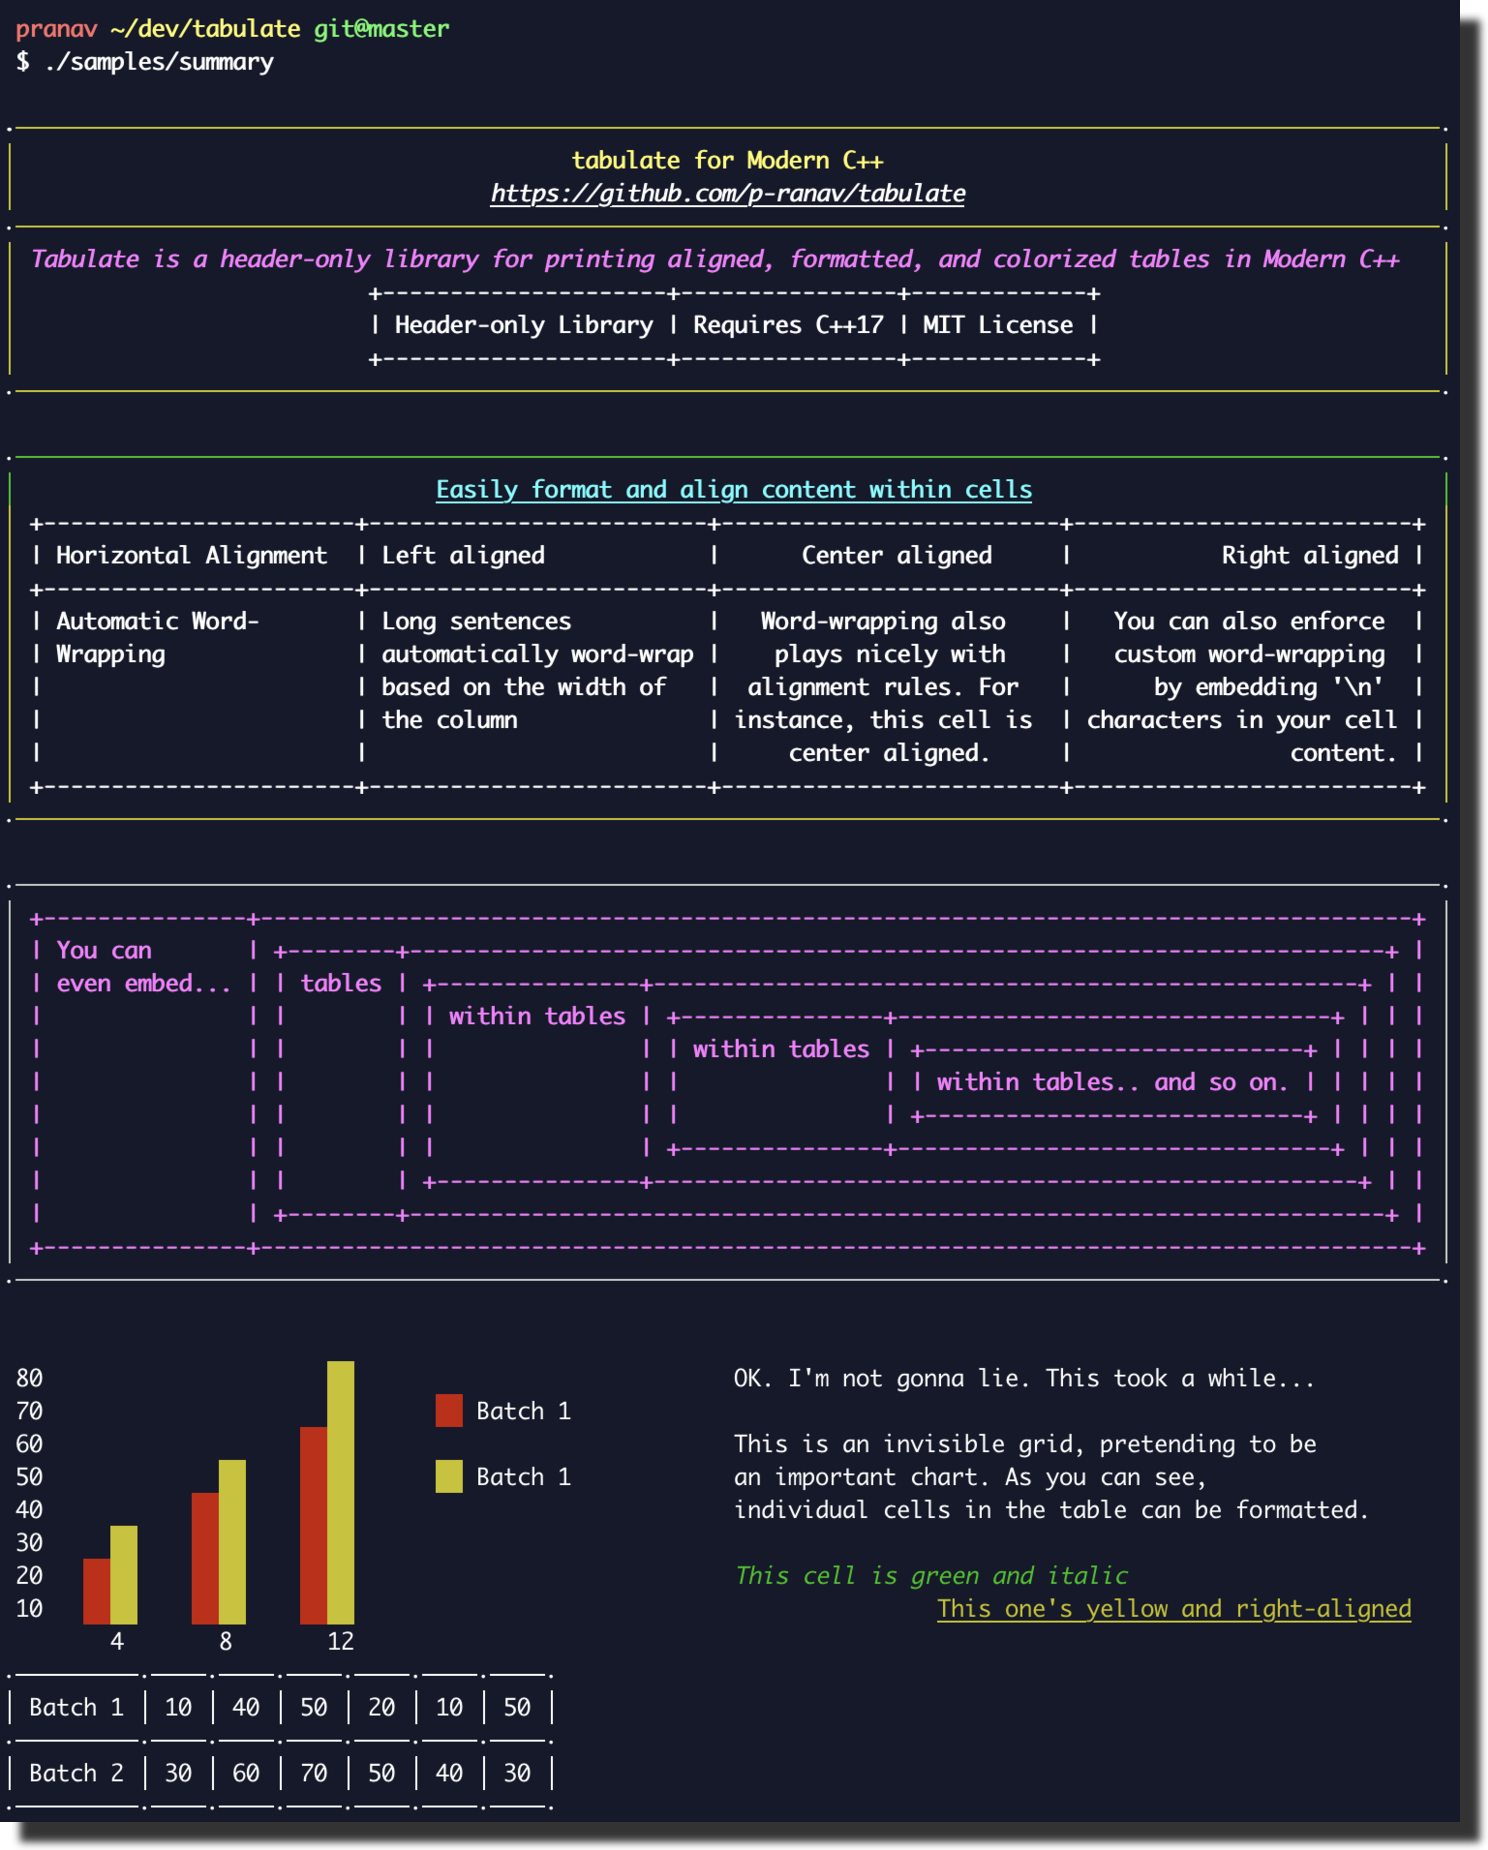
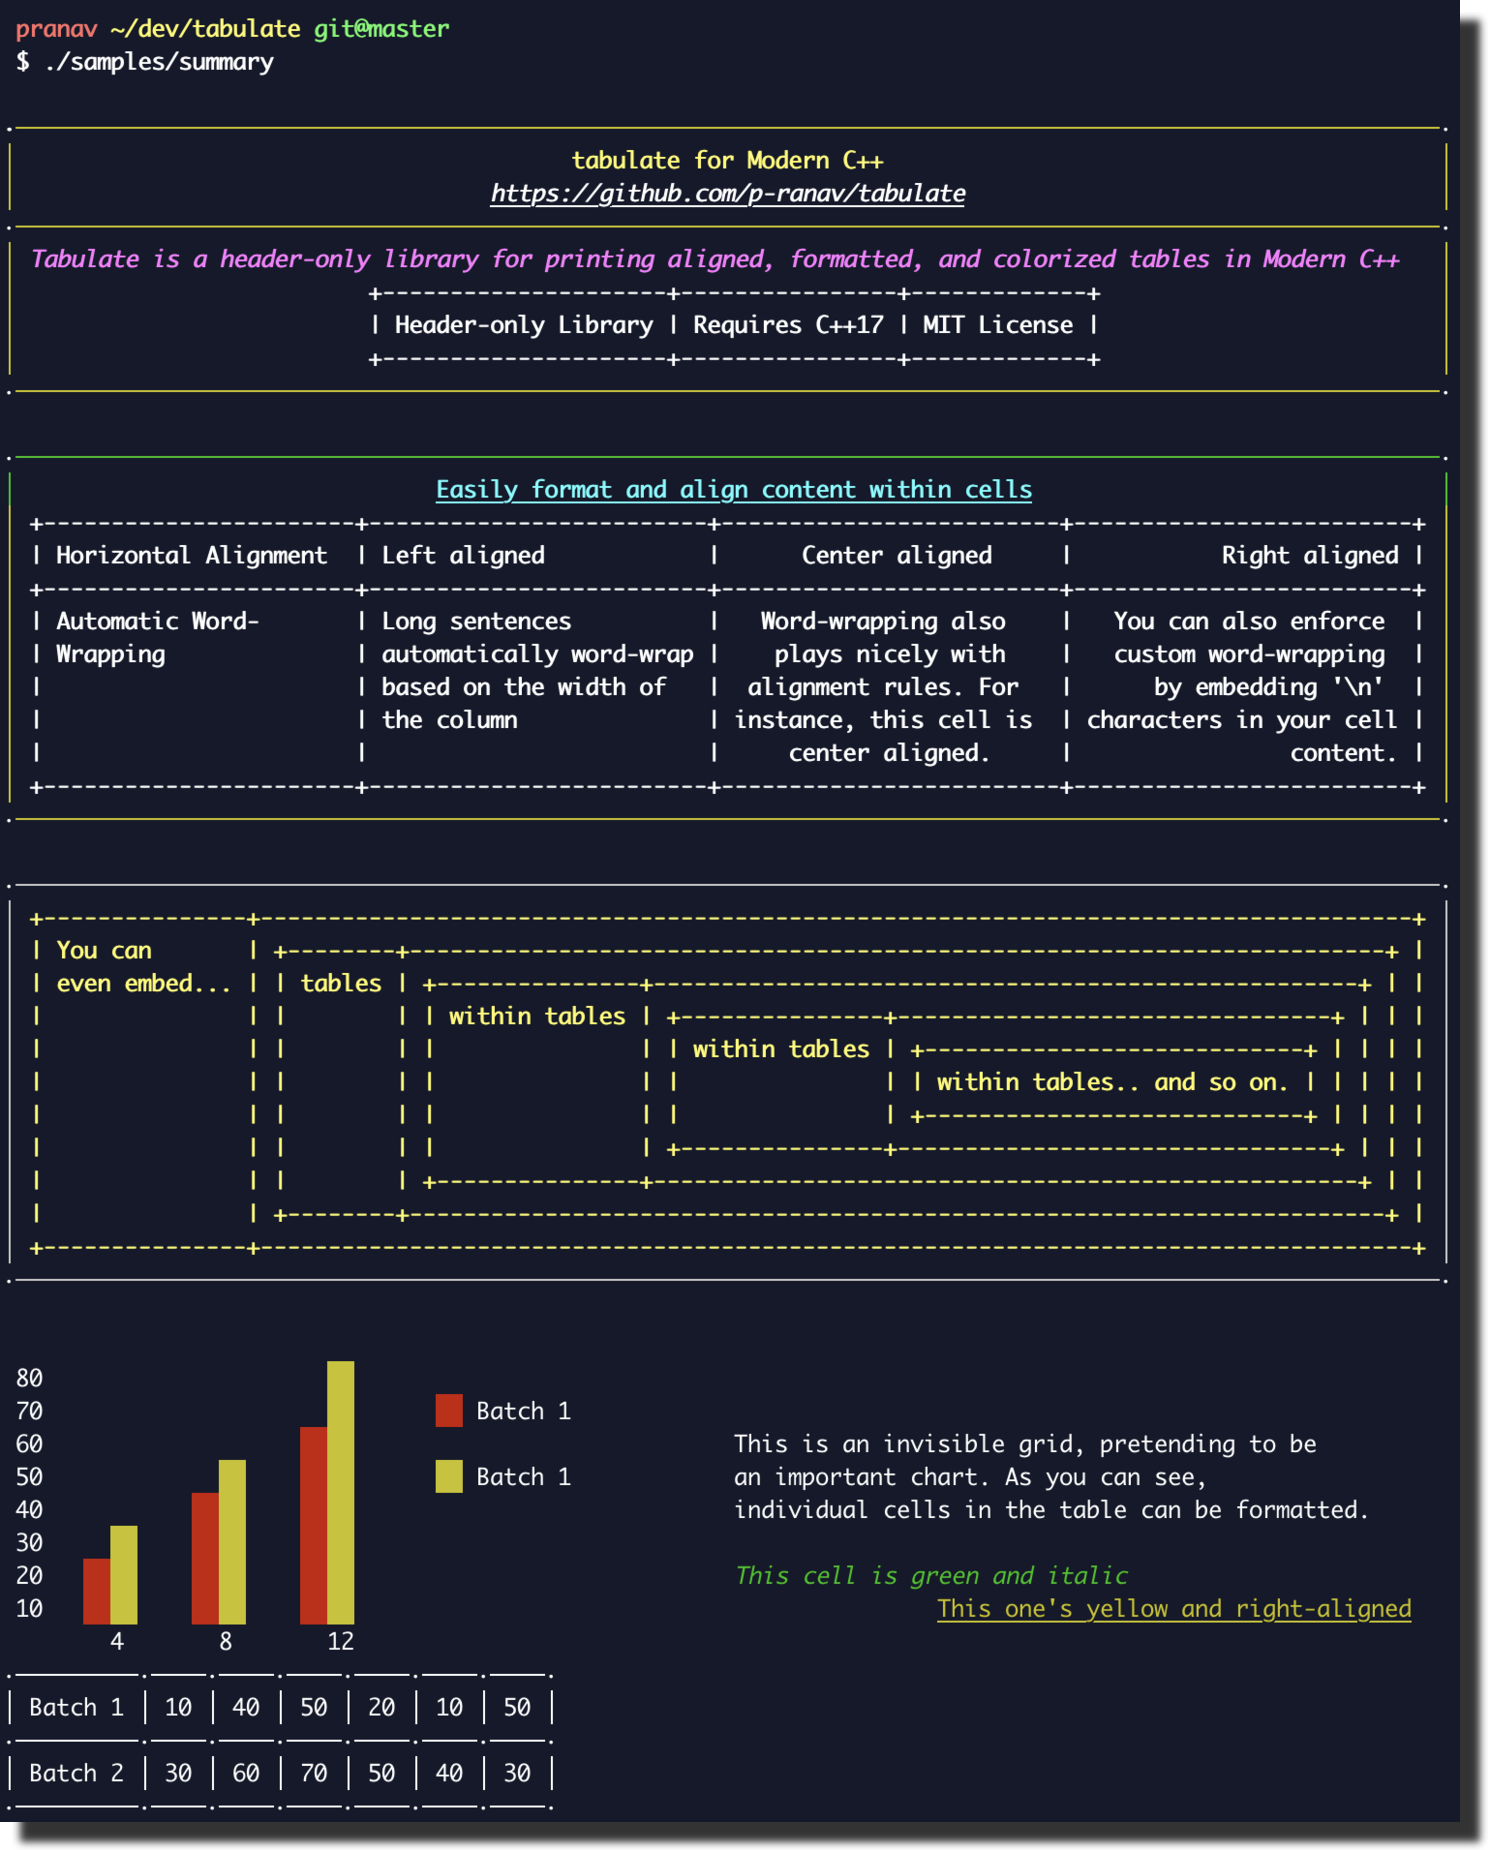
Updated sample

diff --git a/samples/summary.cpp b/samples/summary.cpp
@@ -71,19 +71,6 @@ int main() {
   readme.add_row({empty_row});
   readme[7].format().hide_border_left().hide_border_right();
 
-  // readme.add_row({"Color table borders, corners, column separators, cells, rows, and columns"});
-  // readme[8].format()
-  //   .font_align(FontAlign::center)
-  //   .border_color(Color::blue)
-  //   .corner_color(Color::blue)
-  //   // .hide_border_top()
-  //   .padding_bottom(1)
-  //   .font_color(Color::white)
-  //   .background_color(Color::blue);
-
-  // readme.add_row({empty_row});
-  // readme[8].format().hide_border_top().hide_border_left().hide_border_right();
-
   Table embedded_table;
   embedded_table.add_row(
       {"You can \neven embed...", 
@@ -99,7 +86,7 @@ int main() {
 
   readme[8].format()
     .border_color(Color::white)
-    .font_color(Color::magenta);
+    .font_color(Color::yellow);
 
   // Print the table
   std::cout << "\n\n";
@@ -207,7 +194,6 @@ int main() {
   legend.add_row({"Batch 2", "30", "60", "70", "50", "40", "30"});
 
   chart.column(17).format().width(50);
-  chart[1][17].set_text("OK. I'm not gonna lie. This took a while...");
 
   chart[3][17].set_text("This is an invisible grid, pretending to be");
   chart[4][17].set_text("an important chart. As you can see,");
